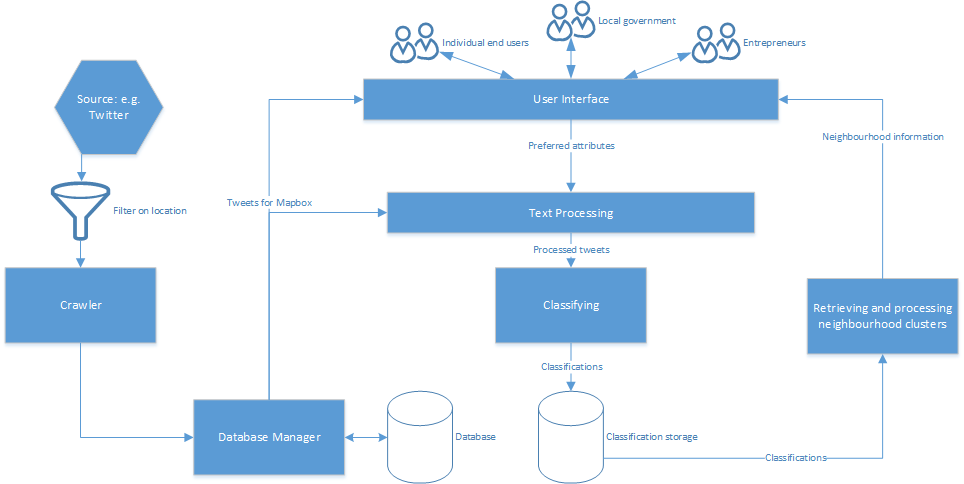
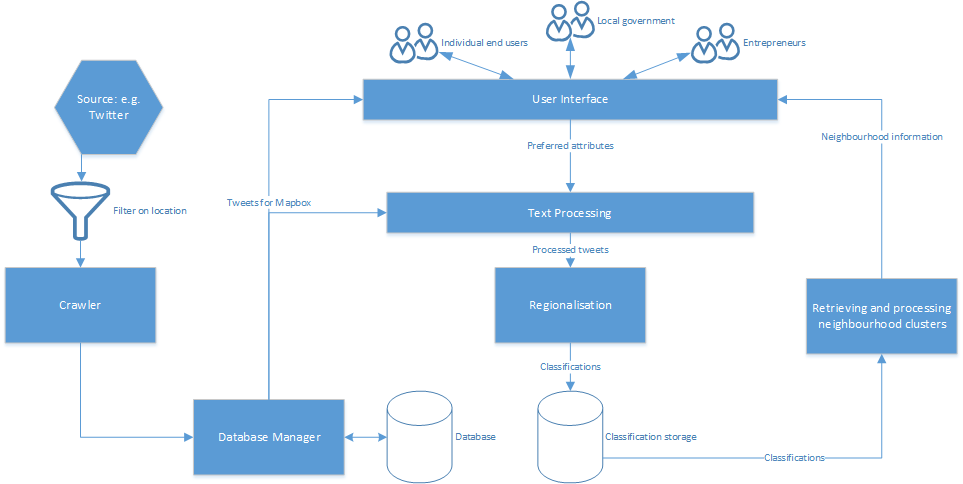
Methods section

diff --git a/Documents/idea document 2/ideadocument2.md b/Documents/idea document 2/ideadocument2.md
@@ -5,9 +5,38 @@
 # Data Collection
 
 # Methods
-(Thom)
+This chapter specifies which methods will be used for the neighbourhood classification. The several steps that have to be taken to extract useful information out of the data are dispayed in a pipeline diagram, after which the steps are elaborated somewhat more.
 
-# Speficications & Execution Plan
+### Overall system architecture
+The following graph shows how input data (e.g. tweets) are processed into neighbourhood classifications.
+<p align="center">
+  <img alt="Workbench electron-browser component" src="../images/pipeline.png" width="60%">
+</p>
+
+These tweets can be used for both the processing and identification of neighbourhoods and direct display on the user interface. All relevant (sport-related) tweets will be displayed.
+
+The tweets are processed to determine which topics are discussed. Relevant (i.e. matching with a sport related word list) tweets are used to classify neighbourhoods. The clusters are also used in the user interface.
+
+### Crawler
+The crawler uses the Twitter API and Strava data. After location based filtering all data is passed to the Database Manager which stores it for later usage.
+
+### Database Manager
+The storage is provided by a simple PostgreSQL database.
+
+### Text processing
+Messages are matched and indexed to a sports-related taxonomy to indicate whether the message gives information about a sports activity and which activity that could be.
+
+### Regionalisation
+After the contents of the message have been processed this information is sent to the regionalisation subsystem. This system clusters the messages over multple dimensions (spatial, time, sport). The spatial aspect of this is done by the maxp regionalisation algorithm, which is part of the [pysal library](http://pysal.readthedocs.io/en/latest/library/region/maxp.html). Clustering on the other properties is done by a more common clustering algorhitm like [k-means](http://scikit-learn.org/stable/modules/generated/sklearn.cluster.k_means.html#sklearn.cluster.k_means).
+
+### User Interface
+The tweets and regions are sent to the user interface. The different stakeholders can all retrieve their information need from it.
+<p align="center">
+  <img alt="Workbench electron-browser component" src="../images/mockup.png" width="60%">
+</p>
+This mockup shows how end-users will interact with the end-result. The interface provides a big graphical interface containing a map with tweets and areas (neighbourhoods) projected on it. A settings panel allows for a little customization in what is shown. Export functionality is provided for stakeholders who want to use the data for their own application (e.g. to calculate where a shop can be opened).
+
+# Specifications & Execution Plan
 
 # Expected Outcomes
 
